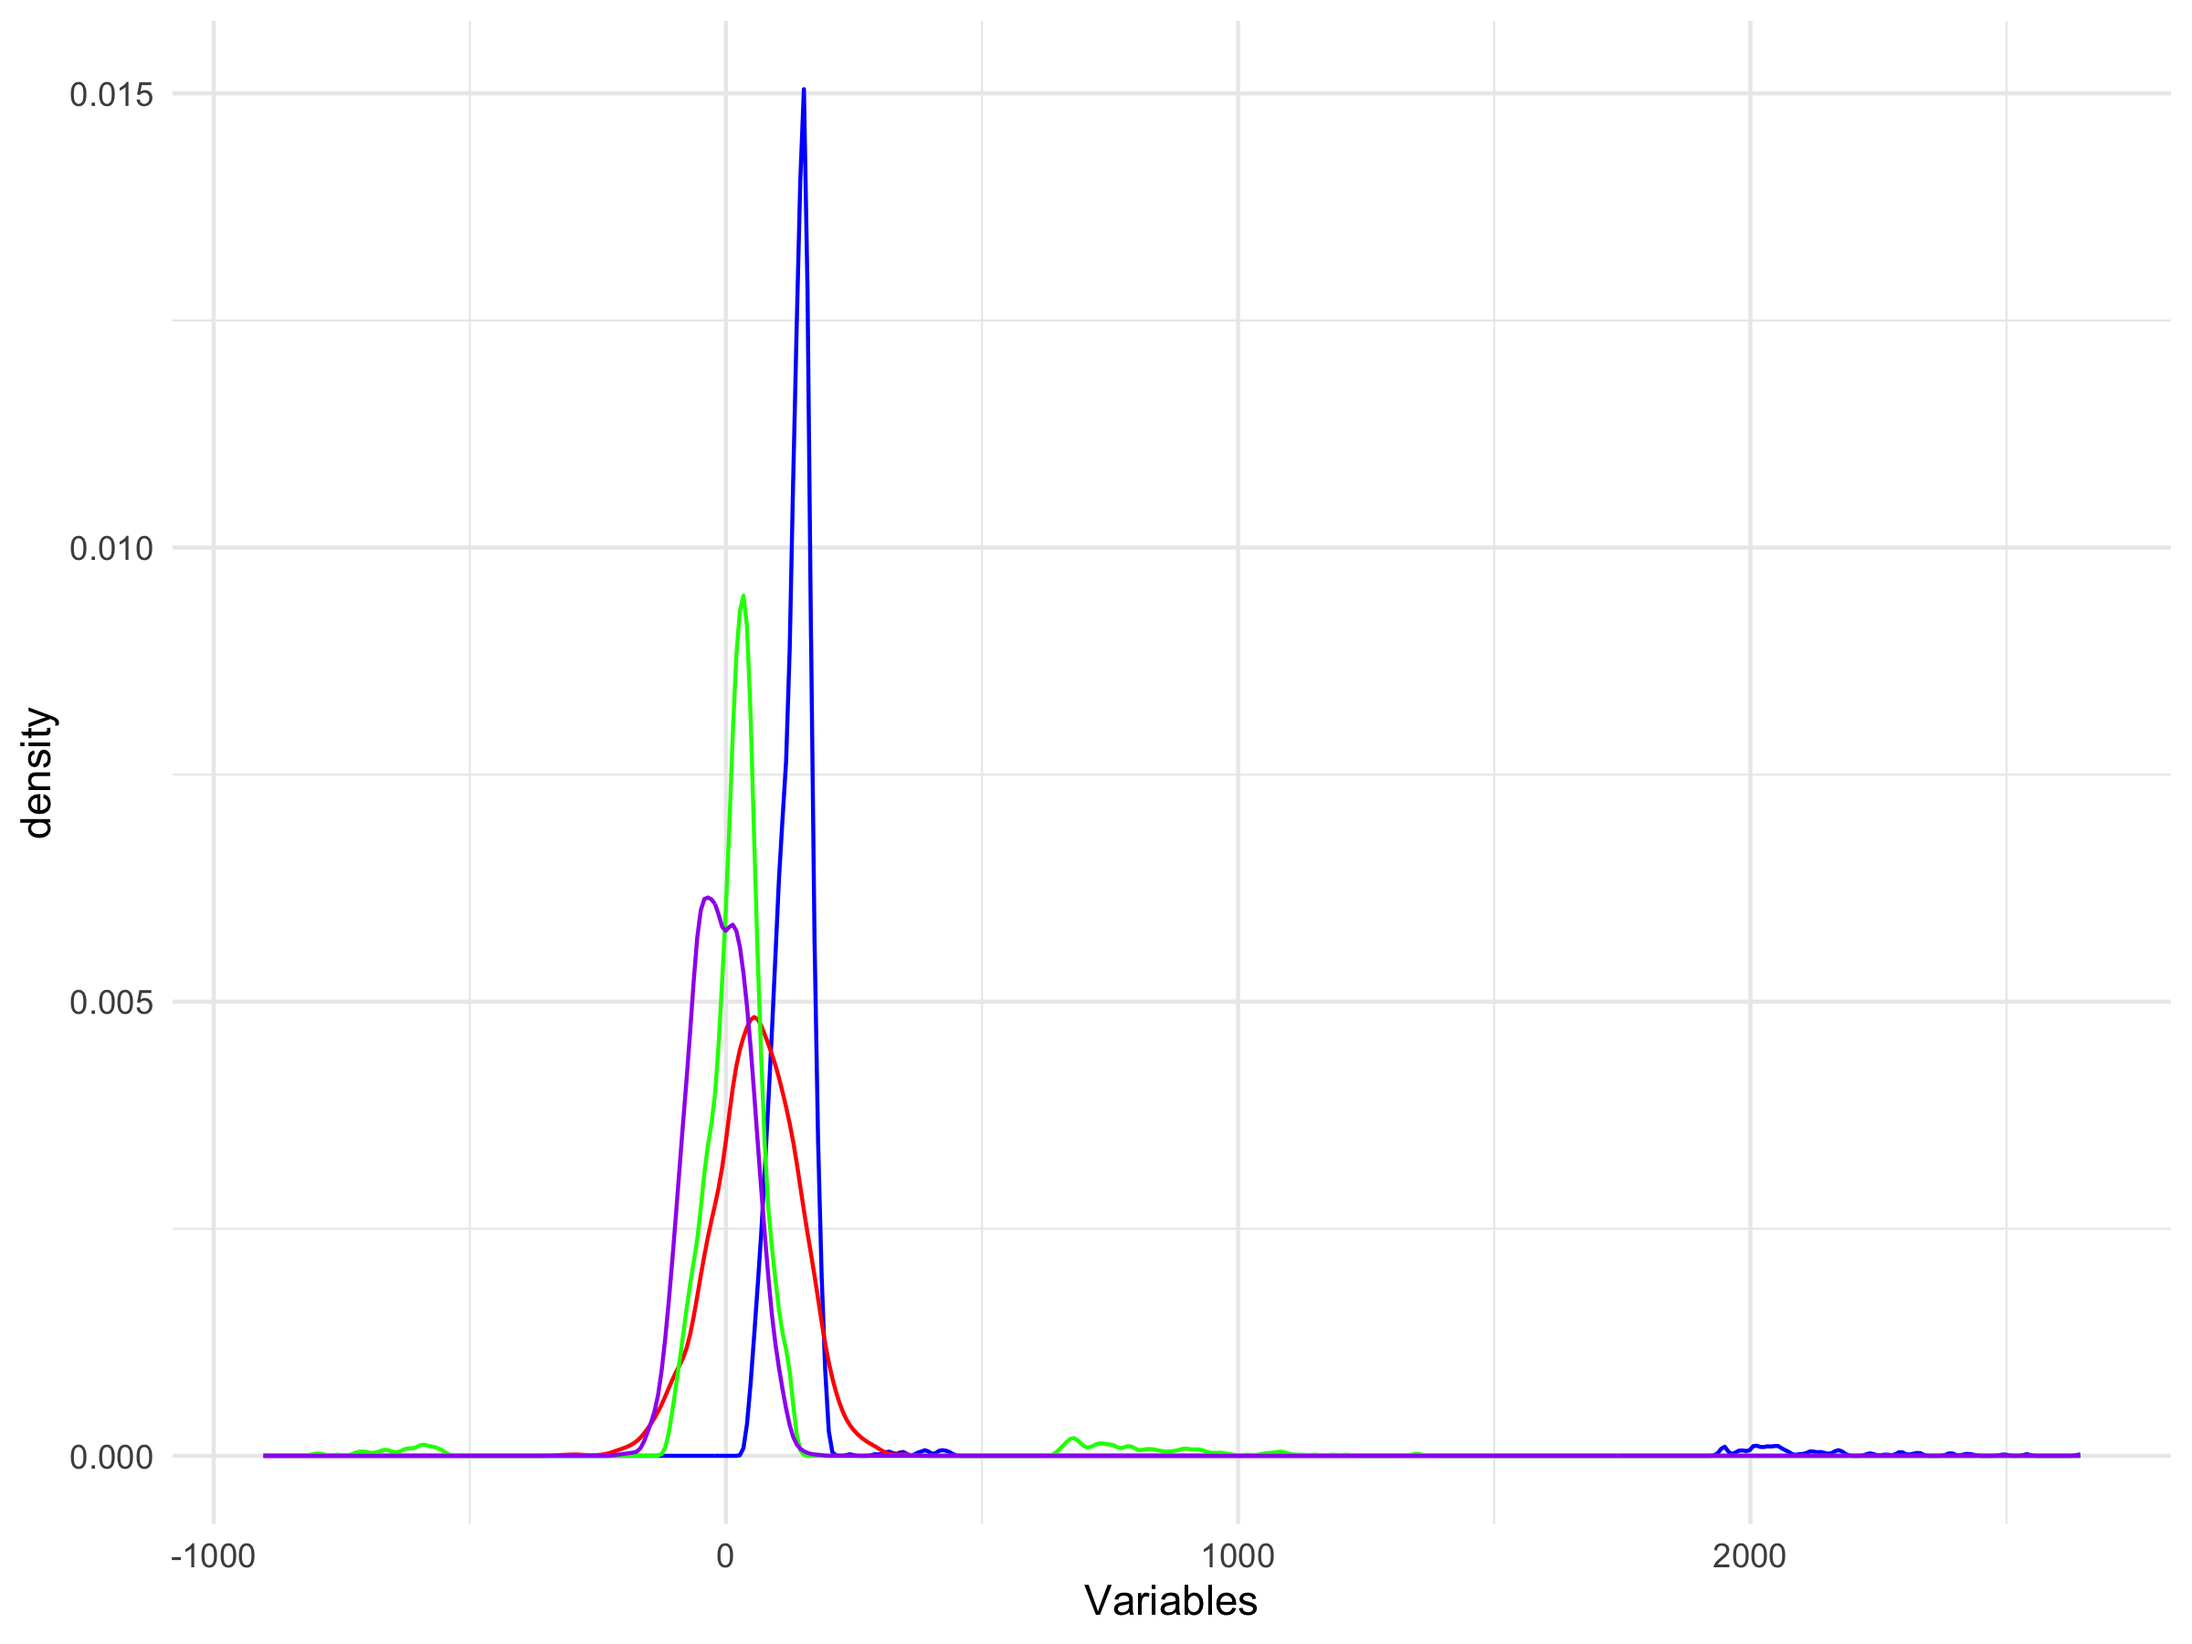
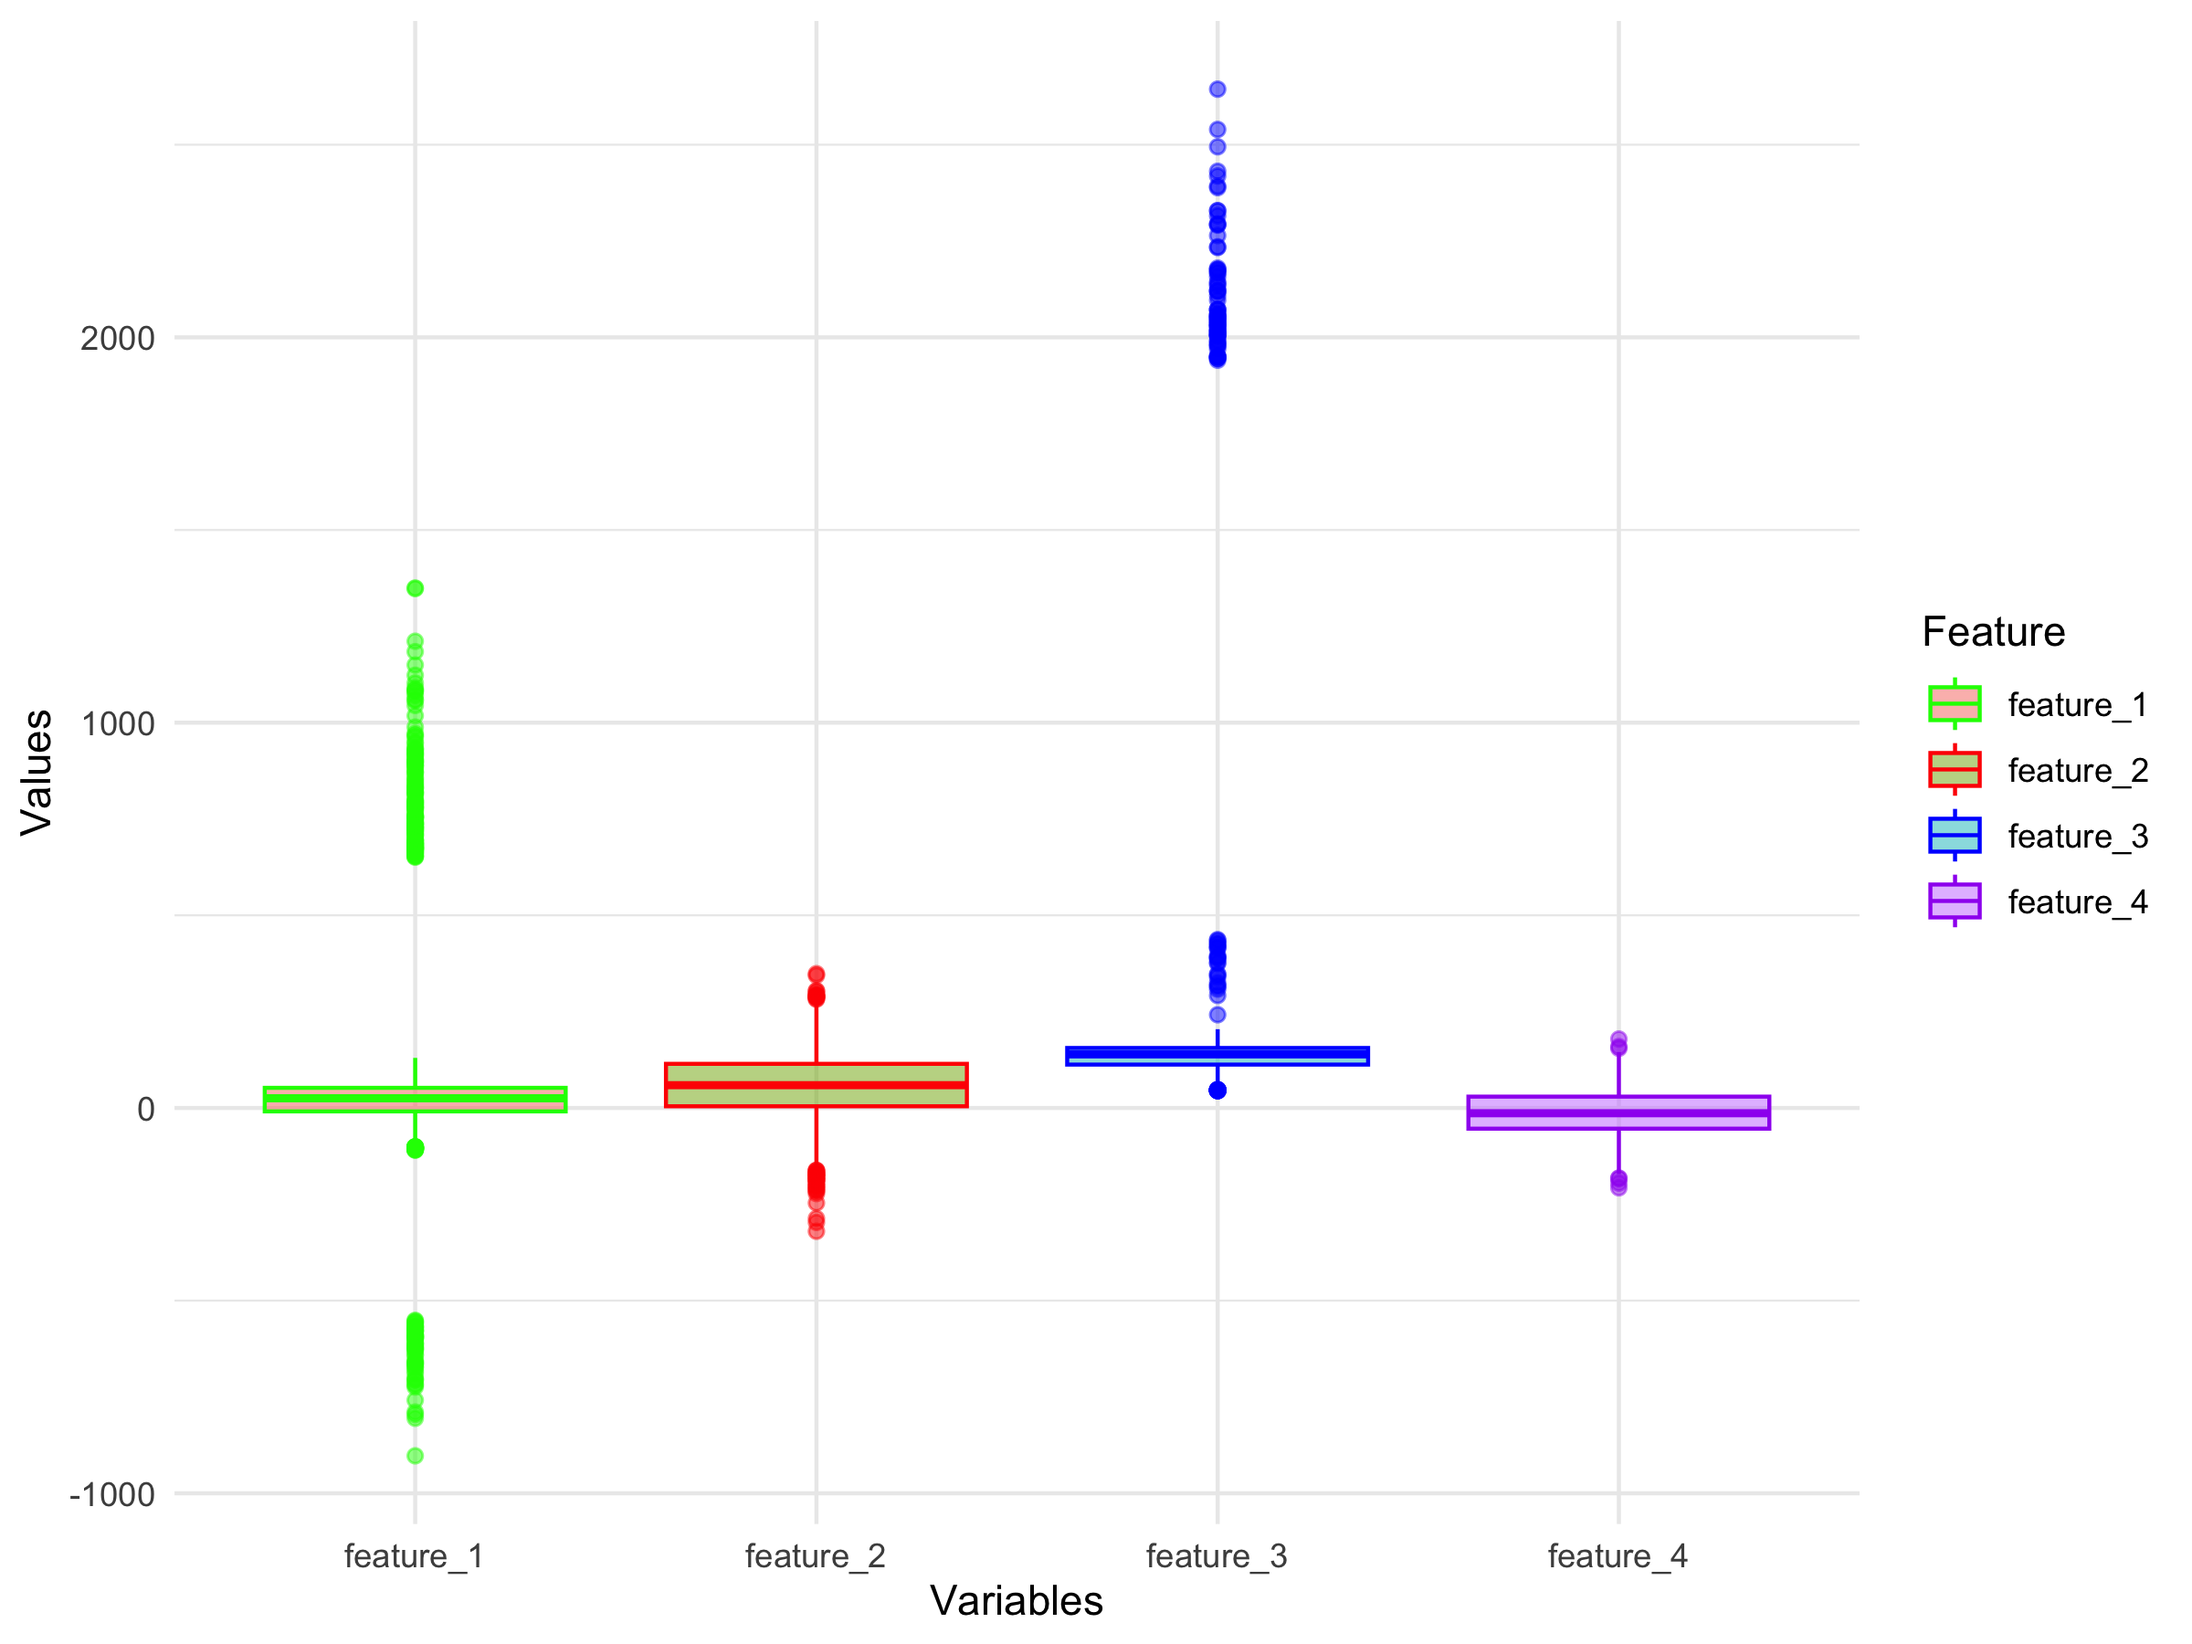
improved documentation

diff --git a/90+_DaysPastDue/ReadMe.md b/90+_DaysPastDue/ReadMe.md
@@ -22,19 +22,22 @@ test <- read.csv(
 ```
 
 From checking the distribution of the data, you can see that the
-distribution of feature 3 (displayed by the blue curve) has many values
-in the extreme right tail.
+distribution of feature 3 has many values in the extreme right tail.
 
 ``` r
 library(ggplot2)
 
-ggplot() + 
-  geom_density(data = train, aes(x = feature_3), color = "blue") +
-  geom_density(data = train, aes(x = feature_2), color = "red") +
-  geom_density(data = train, aes(x = feature_1), color = "green") +
-  geom_density(data = train, aes(x = feature_4), color = "purple") +
-  theme_minimal() + 
-  xlab("Variables")
+library(ggplot2)
+
+ggplot(data = train) +
+  geom_boxplot(aes(x = "feature_1", y = feature_1, fill = "feature_1"), color = "green", alpha = 0.5) +
+  geom_boxplot(aes(x = "feature_2", y = feature_2, fill = "feature_2"), color = "red", alpha = 0.5) +
+  geom_boxplot(aes(x = "feature_3", y = feature_3, fill = "feature_3"), color = "blue", alpha = 0.5) +
+  geom_boxplot(aes(x = "feature_4", y = feature_4, fill = "feature_4"), color = "purple", alpha = 0.5) +
+  theme_minimal() +
+  xlab("Variables") +
+  ylab("Values") +
+  labs(fill = "Feature")
 ```
 
 <div align="center">
@@ -43,9 +46,13 @@ ggplot() +
 
 </div>
 
-The many outliers adds noise that disrupts our models ability to capture
-the trend of the data, so we removed the top and bottom percentiles from
-feature 3. This is known as **Winsorization**.
+Notice the substantial gap between the middle quartiles of Feature 3’s
+distribution and its upper outliers. Such pronounced outliers could
+significantly skew our model parameters, particularly because these
+outliers are not balanced by a symmetric lower tail, as seen in
+Feature 1. So we will remove them to produce a model which is
+representative of the vast majority of our data. This is known as
+**Winsorization**.
 
 ``` r
 library(dplyr)
@@ -77,7 +84,7 @@ train <- train %>%
 colnames(train)[3] <- "feature_3_winsor"
 ```
 
-We need to fill in the blanks from the values we just removed, so we
+We need to fill in the blanks from the outliers we just removed, so we
 will replace them with the median of the non-outliers of feature 3.
 
 ``` r
@@ -88,9 +95,10 @@ test[is.na(test[, 3]), 3] <- median(feature_3_winsor_clean$feature_3)
 colnames(test)[3] <- "feature_3_impute"
 ```
 
-Feature 2 has missing values, so for each missing value for we will fill
-in the blank with the next year’s value or the previous year’s (if the
-next year is also missing) corresponding to the same ID.
+Feature 2 contains missing values. For each missing value, we will fill
+it with the corresponding value from the next year for the same ID. If
+the next year’s value is also missing, we will use the previous year’s
+value instead.
 
 ``` r
 train$date <- format(as.Date(train$date, format = "%Y-%m-%d"), "%Y")
@@ -153,10 +161,10 @@ knitr::include_graphics(
 
 </div>
 
-Our features (variables) all represent different financial measurements
-quantified by different units. In order for these variables to be
-measured uniformly, we can reassign each value with its corresponding
-z-score within its respective variable distribution.
+Our features represent various financial measurements, each quantified
+in different units. To ensure uniform measurement across variables, we
+can standardize them by replacing each value with its corresponding
+z-score within the distribution of its respective variable.
 
 ``` r
 library(dplyr)
@@ -215,42 +223,45 @@ ggplot() +
 
 The preparation of the training data is complete.
 
-## Building The Model
+**Building the Model**
 
-Building a logistic regression model from features 1 to 4 as continuous
-independent variables and column y as the binary dependent variable
-(true/false).
+We are constructing a logistic regression model using Features 1 through
+4 as continuous independent variables and Column Y as the binary
+dependent variable (True/False).
 
-Given historical data of customers financial information and whether or
-not they were **90+ days past due** on payments, we can produce a model
-that will generate a probability that a customer will be **90+ days past
-due** on payments.
+With historical data on customers’ financial information and their
+status regarding being 90+ days past due on payments, this model can
+estimate the probability of a customer being 90+ days past due.
 
-For explanation of logistic regression binary classifiers see the
-following invaluable resource:
-<https://seantrott.github.io/binary_classification_R/>
+For a detailed explanation of logistic regression binary classifiers,
+refer to this invaluable resource: [Binary Classification in
+R](https://seantrott.github.io/binary_classification_R/).
 
-When the model produces a probability of an individual being **90+DPD**,
-we will have to decide at what probability we draw the conclusion that
-the individual will be **90+DPD**. The value chosen has great impact on
-the accuracy of the model.
+When the model predicts the probability of an individual being 90+ days
+past due (90+DPD), we must decide on a decision threshold—the minimum
+predicted probability at which we conclude that the individual will be
+90+DPD. The choice of this threshold significantly impacts the model’s
+accuracy.
 
-## Fitting The Model
+# **Fitting the Model**
 
-**decision threshold:** The minimum predicted probability value from the
-model that a customer will be **90+ DPD** at which it is concluded that
-the customer will be **90+ DPD**.
+**Decision Threshold:** This is the minimum predicted probability value
+from the model at which we classify a customer as 90+DPD.
 
-Since the outcome of whether or not there will be late payments is known
-in our testing data; we can asses the accuracy of the model by
-evaluating the model on the testing data and directly comparing the
-predicted outcomes to the actual outcomes, as well assessing the impact
-of the **decision threshold** we used on the model’s accuracy.
+Since the actual outcomes (whether a customer was 90+DPD) are known in
+our testing data, we can evaluate the model’s accuracy by:
 
-The testing data is completely distinct from the data used to produce
-the model, so the accuracy results of the model being evaluated on it
-are representative of the models accuracy being evaluated of future
-data. The following analysis are those accuracy results.
+    1.  Comparing the predicted outcomes to the actual outcomes in the testing data.
+
+    2.  Assessing how the choice of the decision threshold affects the model’s accuracy.
+
+The testing data is entirely distinct from the training data used to
+produce the model, ensuring that the accuracy results on the testing
+data provide a realistic estimate of how the model will perform on
+future data.
+
+The following analysis presents the accuracy results of the model’s
+evaluation.
 
 To asses the accuracy of the model and find the optimal decision
 threshold we produce the ROC curve.
@@ -321,39 +332,51 @@ ggplot(roc_data, aes(x = FPR, y = TPR, color = Threshold)) +
 
 </div>
 
-### The ROC curve is a plot of the models prediction accuracy ratios Sensitivity (y-axis) by Specificity (x-axis) as a result of the decision threshold chosen which is displayed by color gradient.
+#### The **ROC curve** (Receiver Operating Characteristic curve) visualizes the trade-off between the model’s **Sensitivity** (y-axis) and **1 - Specificity** (x-axis) across various decision thresholds. The thresholds are represented by a color gradient.
 
-**Sensitivity:** *what proportion of individuals who were **90+ DPD**
-did the model correctly predict as being **90+ DPD.***
+**Key Definitions**
 
-**Specificity:** *what proportion of individuals who were **not 90+
-DDP** did the model correctly predict as being **not 90+ DPD.***
+    •   **Sensitivity (True Positive Rate):** The proportion of individuals who were 90+DPD that the model correctly predicted as being 90+DPD.
 
-**AUC:** The area under the ROC curve, AUC, is used as a metric for
-overall model performance as the ROC curve is the result of accuracy
-metrics from the entire range of decision thresholds. The blue dotted
-line is a perfect model containing 100% of the area under its curve. The
-grey line is if you were to predict the outcome by tossing a coin and
-thus naturally the area under it’s curve is 50%.
+    •   **Specificity (True Negative Rate):** The proportion of individuals who were not 90+DPD that the model correctly predicted as not being 90+DPD.
 
-The **AUC** of our model is 0.8211.
+#### **AUC (Area Under the Curve)**
 
-To illustrate the meaning of this curve, take for example the accuracy
-results if you were to select a decision threshold of 0.50 represented
-as cyan blue: Your specificity would be about 94%, which is good since
-you did not falsely predict too many late payments. However, your
-sensitivity would only be 25%, such that you only successfully predicted
-25% of the late payments. Conversely if you had selected a decision
-threshold of .10 represented as pink-red you would successfully predict
-94% of late payments but only 25% of individuals who were not late on
-payments were correctly identified as such by the model.
+The **AUC** quantifies overall model performance by aggregating accuracy
+metrics across all decision thresholds.
 
-Therefore, the **decision threshold** we choose is a trade-off between
-successfully predicting late payments and successfully predicting
-non-late payments.
+    •   A perfect model would have an AUC of 1.0 (blue dotted line).
 
-The **decision threshold** which balances these goals is visually
-evident in the following plot.
+    •   A random model (e.g., predicting outcomes by flipping a coin) would have an AUC of 0.50 (grey diagonal line).
+
+    •   **Our model’s AUC is 0.8211**, indicating strong performance.
+
+**Example Decision Thresholds**
+
+    **Threshold = 0.50 (Cyan Blue):**
+
+    •   **Specificity \~94%:** The model correctly identifies most individuals who were not late on payments.
+
+    •   **Sensitivity \~25%:** The model only identifies 25% of individuals who were late on payments.
+
+    **Threshold = 0.10 (Pink-Red):**
+
+    •   **Sensitivity \~94%:** The model correctly identifies nearly all individuals who were late on payments.
+
+    •   **Specificity \~25%:** The model falsely predicts many non-late individuals as late.
+
+#### **Interpretation**
+
+The decision threshold represents a trade-off:
+
+    •   **High Sensitivity:** Captures most late-payment cases but sacrifices accuracy in identifying non-late cases.
+
+    •   **High Specificity:** Accurately predicts non-late cases but misses many late-payment cases.
+
+The optimal threshold balances these goals, as shown visually in the ROC
+plot. The selected threshold will depend on the priorities of the
+analysis—whether it’s more critical to reduce false positives or false
+negatives.
 
 ``` r
 ggplot(roc_metrics, aes(x = threshold)) +
